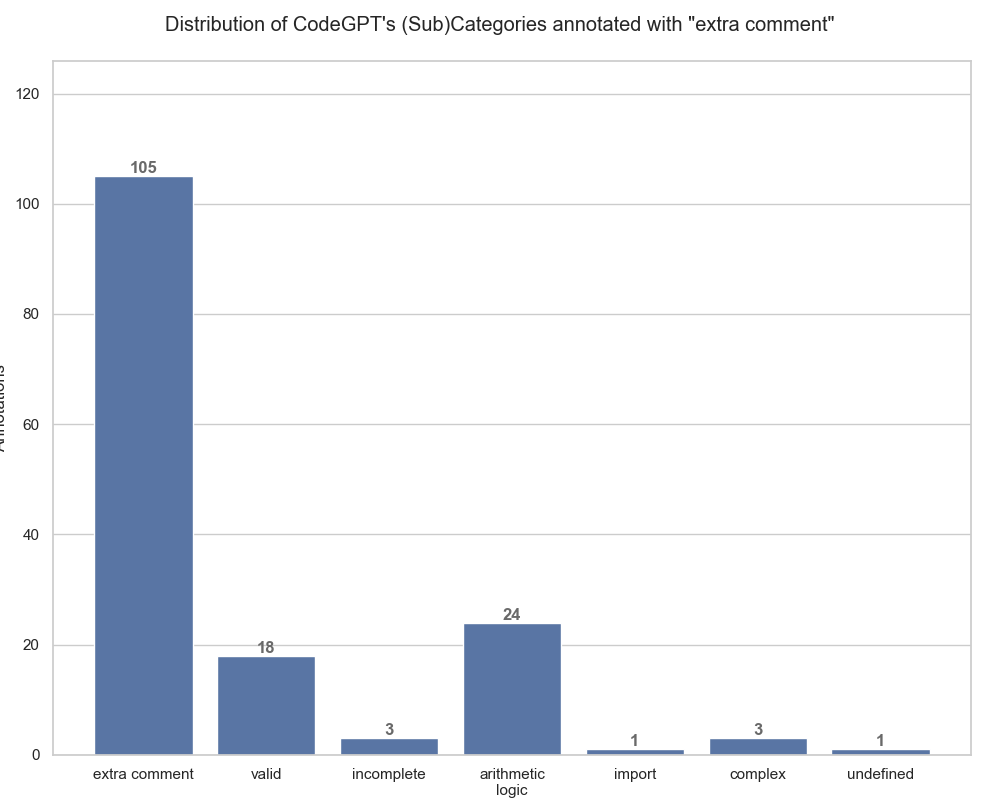
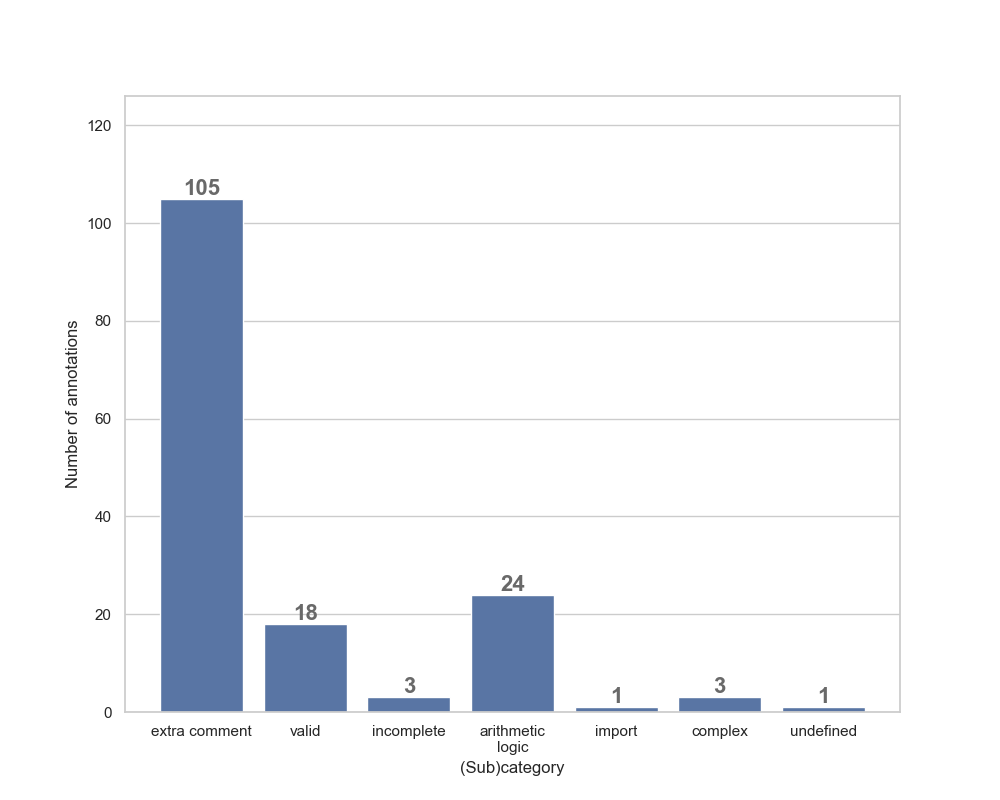
Final update manual evaluation results/scripts for peer feedback deadline

diff --git a/models/evaluation/taxonomify.py b/models/evaluation/taxonomify.py
@@ -49,7 +49,7 @@ def main():
         taxonomy = get_taxonomy(df, include=lambda x: not x[0] and not x[2])
         # print([x[0] for x in taxonomy["other"]["wrong type"]])
 
-        print(json.dumps(taxonomy["_undefined"], indent=4))
+        # print(json.dumps(taxonomy["_undefined"], indent=4))
 
         # TODO: Do something with the taxonomy for the analysis of common pitfalls
         # Currently, playground:
@@ -73,6 +73,8 @@ def main():
         #     df, include=lambda x: not x[0] and not x[2], debug=True), indent=4))
 
         # __debug_check_last_row(df)
+
+        get_all_extra_comments(df)
 
 
 class Taxonomy:
@@ -369,6 +371,27 @@ def __debug_check_last_row(df: pd.DataFrame) -> None:
 
     last_row = df.iloc[-1:]
     print("Last row:", last_row)
+
+
+def get_all_extra_comments(df: pd.DataFrame) -> [str]:
+    """
+    Gets all the input of the extra comments.
+
+    Args:
+        df (pd.DataFrame): the dataframe
+
+    Returns:
+        [str]: all the input of the extra comments
+    """
+
+    # Get all Prediction values that contain "-- |"
+    all_prediction_values = df["Prediction"].tolist()
+    all_prediction_values = [value.split(
+        "--")[1].strip() for value in all_prediction_values if value is not None and "--" in value]
+
+    # Count duplicates and print in JSON format
+    from collections import Counter
+    print(json.dumps(Counter(all_prediction_values), indent=4))
 
 
 if __name__ == "__main__":

diff --git a/models/evaluation/plotify.py b/models/evaluation/plotify.py
@@ -350,11 +350,13 @@ def distribution_of_extra_comments(taxonomy: Taxonomy):
     # Make a barplot of the distribution of extra comments for each subcategory
     fig, ax = plt.subplots(figsize=(10, 8))
 
-    # ! Harcoded length of extra comments
-    fig.suptitle(
-        "Distribution of CodeGPT's (Sub)Categories annotated with \"extra comment\"")
+    # fig.suptitle(
+    #     "Distribution of CodeGPT's (Sub)Categories annotated with \"extra comment\"")
 
-    fig.tight_layout()
+    # Increase font size
+    plt.rcParams.update({'font.size': 16})
+    plt.rc('xtick', labelsize=20)
+    plt.rc('ytick', labelsize=20)
 
     sns.barplot(x=[label.replace("other comments, ", "").replace("arithmetic logic", "arithmetic\nlogic").replace("exra comment", "extra\ncomment") for label in list(extra_comment_count_filtered.keys())],
                 y=list(extra_comment_count_filtered.values()), ax=ax)
@@ -364,7 +366,7 @@ def distribution_of_extra_comments(taxonomy: Taxonomy):
                      color="dimgrey", weight="bold")
 
     ax.set_xlabel("(Sub)category")
-    ax.set_ylabel("Annotations")
+    ax.set_ylabel("Number of annotations")
     ax.set_ylim(0, max(extra_comment_count_filtered.values()) +
                 0.2 * max(extra_comment_count_filtered.values()))
 
